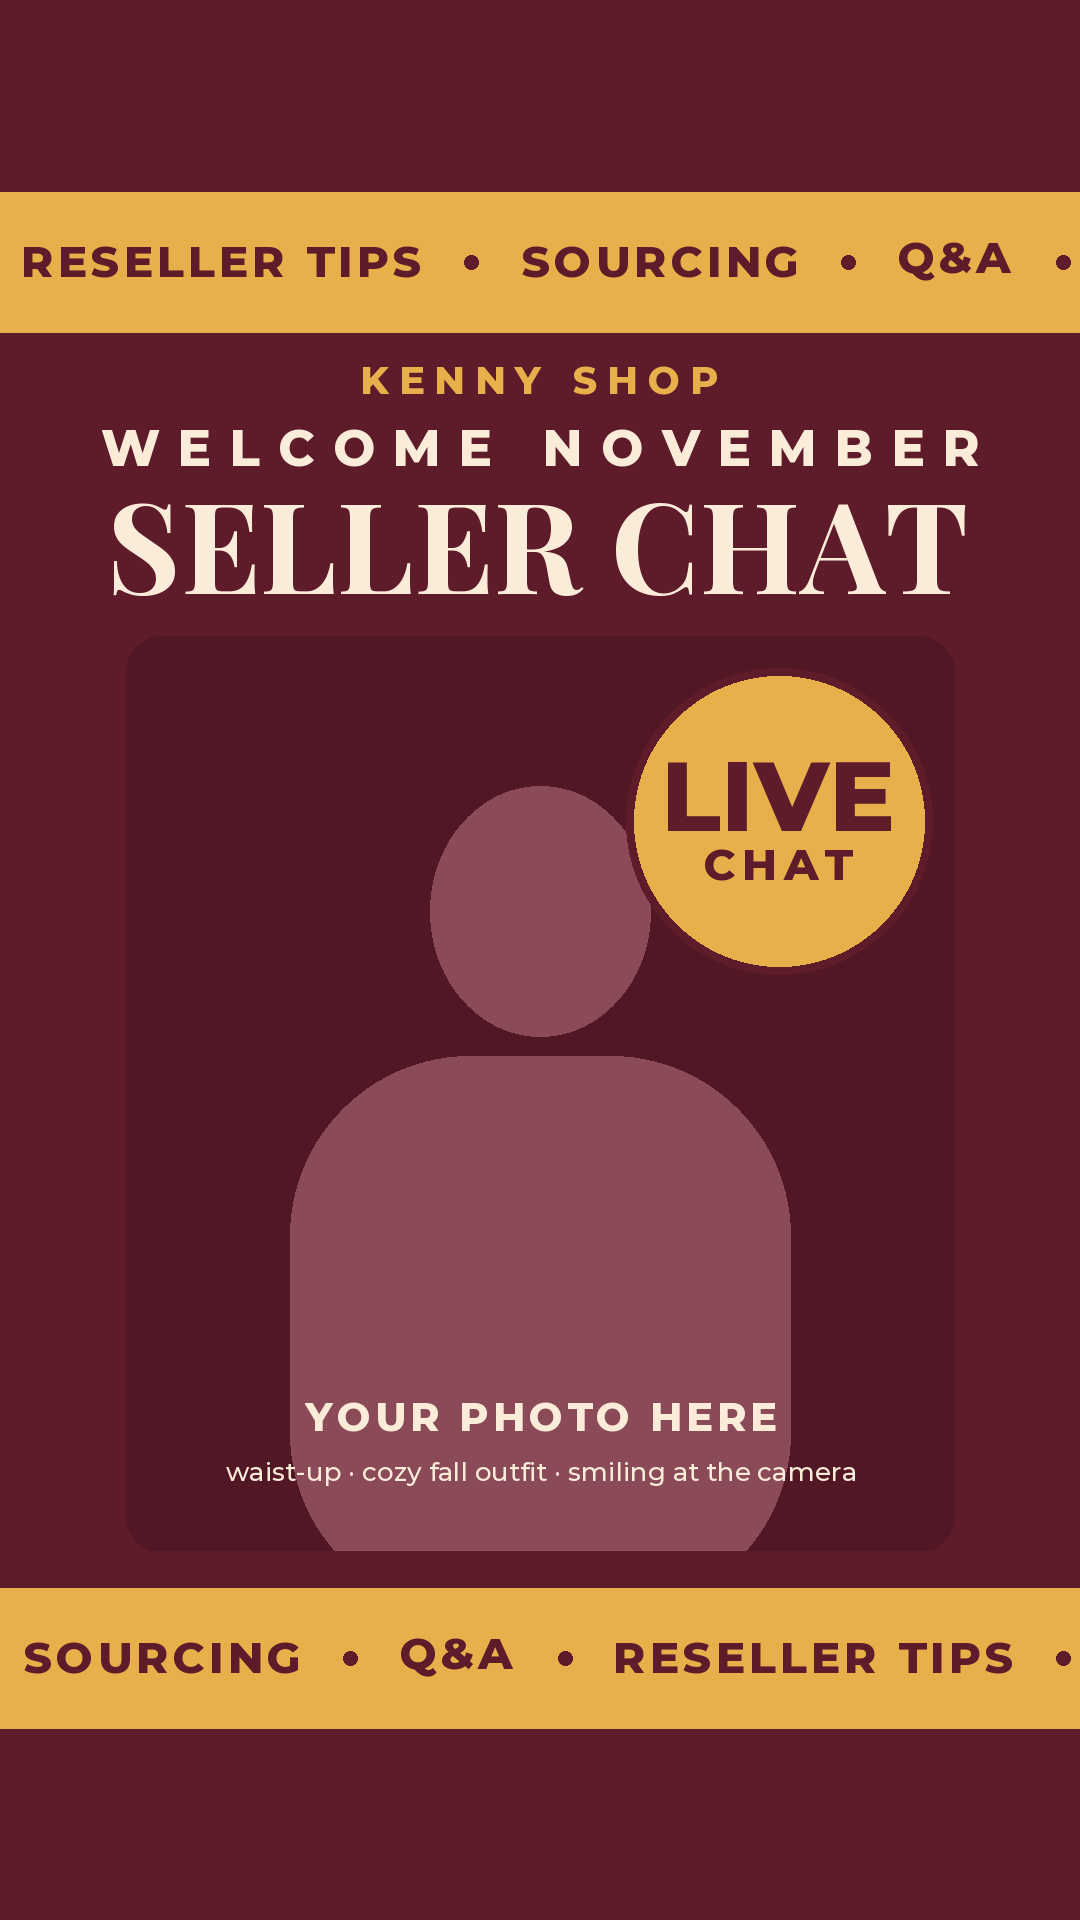
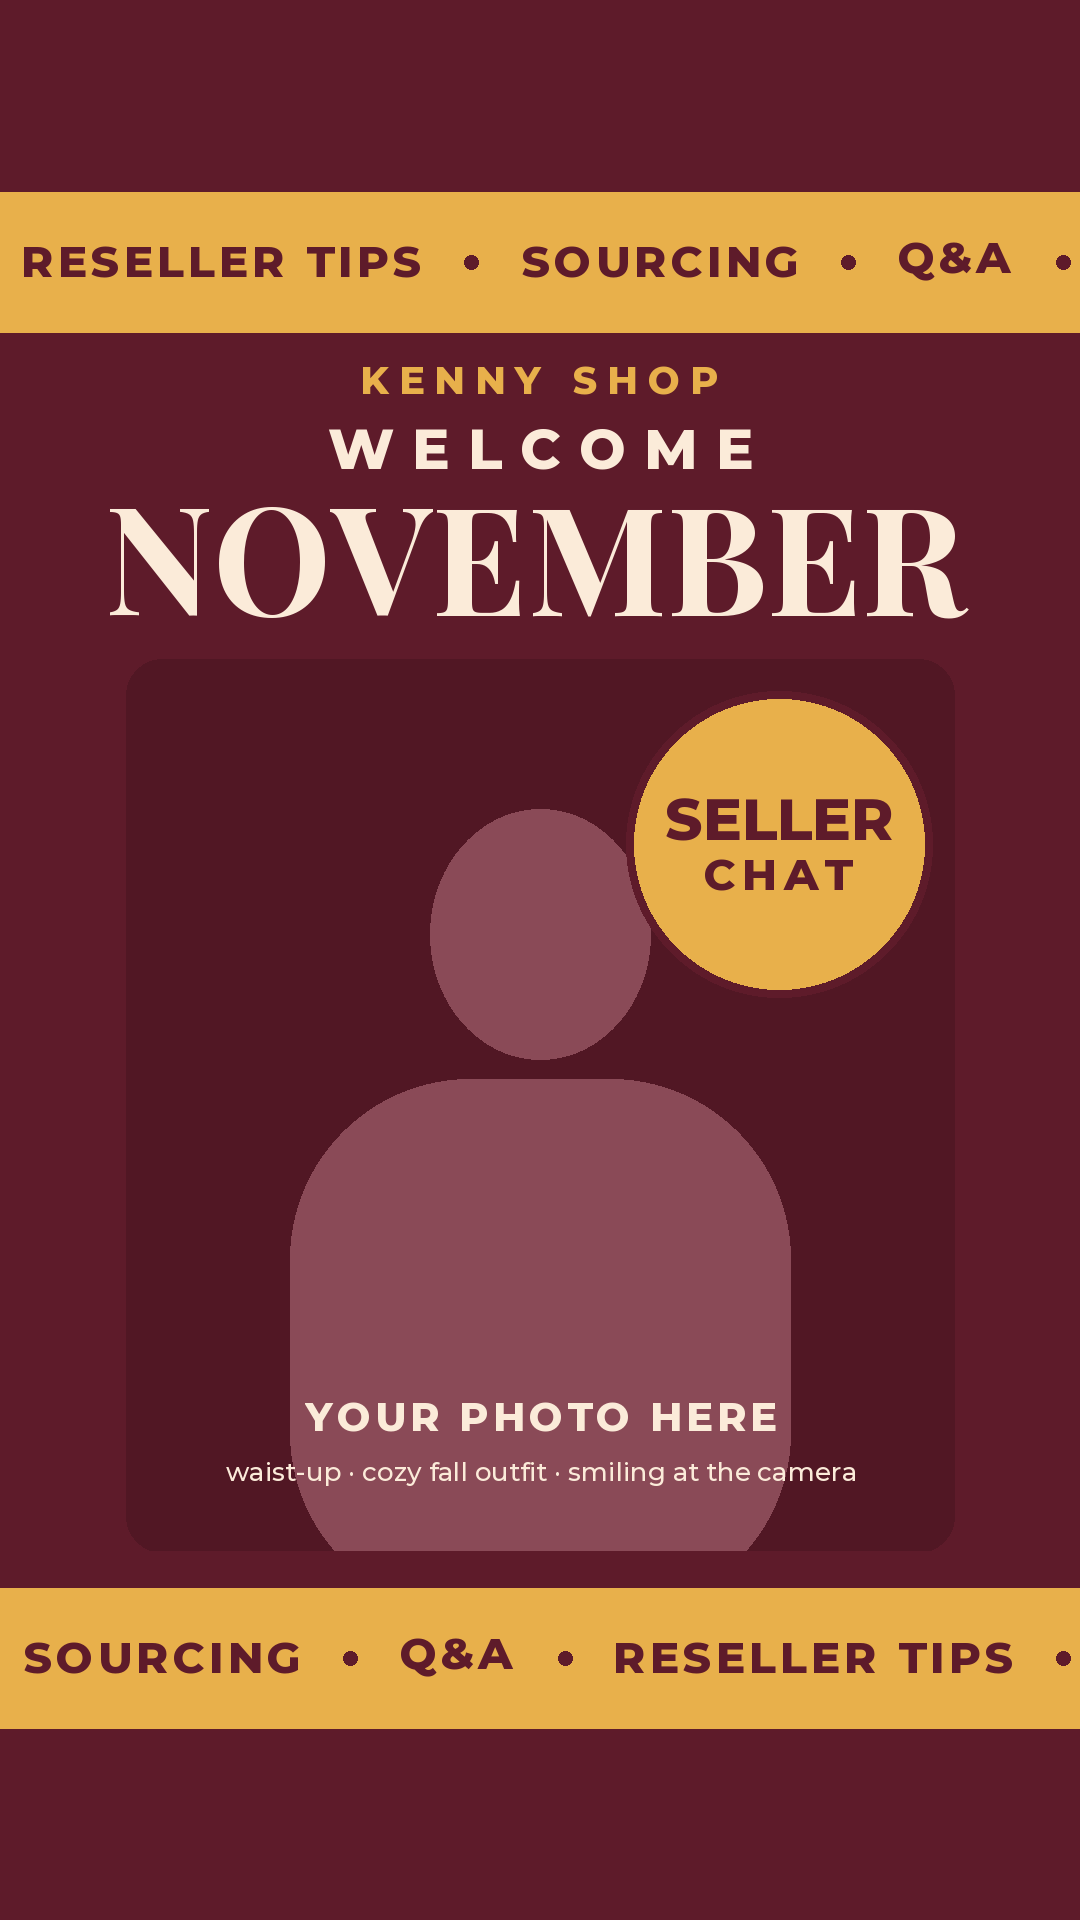
Seller Chat cover: SELLER CHAT badge, WELCOME NOVEMBER headline, new photo (kept local)
Claude-Session: https://claude.ai/code/session_01Q51WZ95sB4G4SBq6JMRbx6

diff --git a/02-branding/whatnot-covers/make_covers.py b/02-branding/whatnot-covers/make_covers.py
@@ -94,19 +94,19 @@ SHOWS["october-clear-out-photo"] = dict(
     photo=HERE / "photos" / "october-clear-out-2.jpg", crop=(560, 400, 1993, 1733),
 )
 
-# Welcome November seller chat: a talk show, not a sale, so the badge says LIVE CHAT.
+# Welcome November seller chat: a talk show, not a sale, so the badge says SELLER CHAT.
 SHOWS["november-seller-chat"] = dict(
     # cranberry + cream + mustard, fall
     bg="#5E1B2A", ink="#FBEBD9", accent="#E8B04B", badge_ink="#5E1B2A",
     photo_bg="#511724", figure="#8A4A57",
-    head_font=SERIF_B, head_scale=1.0, top="WELCOME NOVEMBER", top_font=SANS_B, top_size=50,
-    top_gap=36, main="SELLER CHAT", badge_big="LIVE", badge_small="CHAT", badge_font=SANS_B,
+    head_font=SERIF_B, head_scale=1.0, top="WELCOME", top_font=SANS_B, top_size=56,
+    top_gap=36, main="NOVEMBER", badge_big="SELLER", badge_small="CHAT", badge_font=SANS_B,
     brands=["RESELLER TIPS", "SOURCING", "Q&A"], brand_font=SANS_B,
     photo_hint="waist-up · cozy fall outfit · smiling at the camera",
 )
 SHOWS["november-seller-chat-photo"] = dict(
     SHOWS["november-seller-chat"], template=False, badge="bottom-right",  # off her face
-    photo=HERE / "photos" / "october-clear-out.png", crop=(0, 330, 1320, 1558),
+    photo=HERE / "photos" / "november-seller-chat.jpg", crop=(6, 480, 1314, 1900),
 )
 
 # baby = newborn to 24 months; kids = toddler 2T through big-kid 16 (XL)

diff --git a/02-branding/thumbnail-maker.md b/02-branding/thumbnail-maker.md
@@ -82,11 +82,11 @@ To use a different photo, put it in `photos/` and change `KID_PHOTOS` in `make_c
   `final/october-clear-out-photo.png` (badge bottom-left so it stays off both faces).
 
 ### Welcome November Seller Chat
-- A talk show, not a sale, so the badge says `LIVE CHAT` instead of `$1 STARTS`.
+- A talk show, not a sale, so the badge says `SELLER CHAT` instead of `$1 STARTS`.
 - Colors: cranberry `#5E1B2A` · cream `#FBEBD9` (headline) · mustard `#E8B04B` (runners, Kenny Shop, badge)
-- Fonts: Playfair Display Bold for "SELLER CHAT", Montserrat ExtraBold for everything else
-- Text: `WELCOME NOVEMBER` · `SELLER CHAT` · runners: `RESELLER TIPS` · `SOURCING` · `Q&A`
-- Finished cover: `final/november-seller-chat-photo.png` (denim jacket photo, badge bottom-right)
+- Fonts: Playfair Display Bold for "NOVEMBER", Montserrat ExtraBold for everything else
+- Text: `WELCOME` · `NOVEMBER` · badge `SELLER CHAT` · runners: `RESELLER TIPS` · `SOURCING` · `Q&A`
+- Finished cover: `final/november-seller-chat-photo.png` (car selfie, badge bottom-right)
 
 ## Templates
 - Main cover photo (blank templates): `whatnot-covers/premium-contemporary.png`, `whatnot-covers/premium-activewear.png`,
